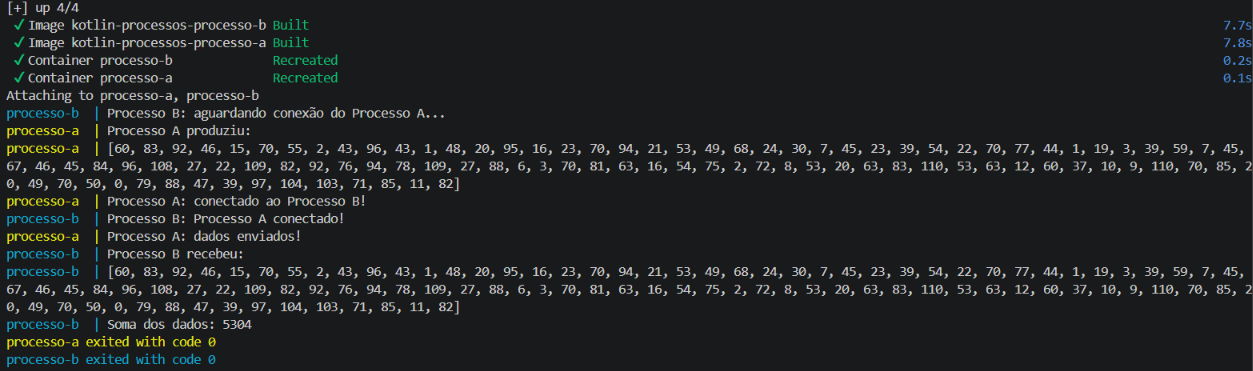
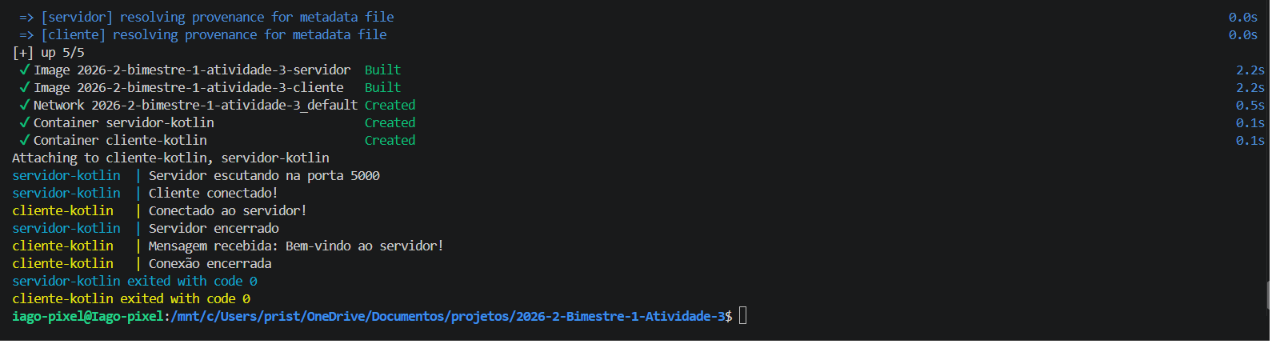
alterando "Comunicação entre tarefas em processos diferentes em computadores diferentes"

Changed region(s): [[0.0, 0.0, 1.0, 1.0]]

diff --git a/servidor/servidor_basico.kt b/servidor/servidor_basico.kt
@@ -1,0 +1,25 @@
+import java.net.ServerSocket
+import java.net.InetAddress
+
+fun main() {
+    val servidor = ServerSocket(
+        5000,
+        1,
+        InetAddress.getByName("0.0.0.0")
+    )
+
+    println("Servidor escutando na porta 5000")
+
+    val conexao = servidor.accept()
+    println("Cliente conectado!")
+
+    val mensagem = "Bem-vindo ao servidor!"
+    conexao.getOutputStream().write(
+        mensagem.toByteArray(Charsets.UTF_8)
+    )
+
+    conexao.close()
+    servidor.close()
+
+    println("Servidor encerrado")
+}

diff --git a/cliente/cliente_basico.kt b/cliente/cliente_basico.kt
@@ -1,0 +1,20 @@
+import java.net.Socket
+
+fun main() {
+    val cliente = Socket("servidor", 5000)
+
+    println("Conectado ao servidor!")
+
+    val buffer = ByteArray(1024)
+    val quantidade = cliente.getInputStream().read(buffer)
+
+    if (quantidade != -1) {
+        val mensagem = String(
+            buffer, 0, quantidade, Charsets.UTF_8
+        )
+        println("Mensagem recebida: $mensagem")
+    }
+
+    cliente.close()
+    println("Conexão encerrada")
+}

diff --git a/relato.md b/relato.md
@@ -161,7 +161,7 @@ fun produzirDados(): List<Int> {
 val resultado = dados.sum()
 ```
 
-> Logo após temos a principal função definida como "principal", essa função realiza a chamada da produção de dados e atirbui a lista a variavel "dados" após isso faz a chamada para afunçaõ seguinte que a realiza a operação já mencionada.
+> Logo após temos a principal função definida como "principal", essa função realiza a chamada da produção de dados e atribui a lista a variavel "dados" após isso faz a chamada para afunçaõ seguinte que a realiza a operação já mencionada.
 
 
 ##### Ex-2:
@@ -301,92 +301,71 @@ FIXME
 
 #### O código
 
-> O projeto demonstra a comunicação entre dois processos independentes utilizando Kotlin, Docker e TCP Socket.
+> O código desenvolvido tem como objetivo estabelecer uma comunicação entre dois programas escritos em Kotlin, utilizando sockets TCP e executando cada programa em um contêiner Docker separado.
 
-> O Processo A é responsável por gerar uma lista com 100 números aleatórios. Depois, ele cria um Socket e se conecta ao Processo B através da porta 5000. A lista é convertida para texto e enviada pela conexão TCP.
+> O servidor é responsável por escutar conexões na porta 5000 e aguardar a solicitação de um cliente. Quando a conexão é estabelecida, ele envia a mensagem “Bem-vindo ao servidor!” e, em seguida, encerra a conexão. O cliente, por sua vez, conecta-se ao servidor utilizando o nome do serviço definido no Docker Compose, recebe a mensagem enviada, exibe o conteúdo no terminal e fecha a conexão.
 
-> O Processo B funciona como servidor. Ele utiliza ServerSocket(5000) para ficar aguardando uma conexão. Quando o Processo A se conecta, B recebe os dados, transforma a mensagem novamente em uma lista de números e calcula a soma.
+> Para executar os programas, foram criados Dockerfiles individuais, responsáveis por compilar os códigos Kotlin e preparar o ambiente de execução de cada aplicação. Além disso, foi utilizado o Docker Compose para construir as imagens, iniciar os contêineres e permitir a comunicação entre eles por meio de uma rede interna.
 
-> O Docker Compose cria e conecta os dois containers em uma rede interna. Dessa forma, o Processo A consegue encontrar o Processo B pelo nome processo-b.
+> Dessa forma, o exercício demonstrou na prática o funcionamento da comunicação entre processos utilizando sockets TCP, além de apresentar como o Docker permite executar aplicações isoladas que se comunicam pela rede.
 
-> Assim, o projeto mostra como dois processos separados podem trocar informações pela rede sem compartilhar diretamente a memória, simulando a comunicação entre dois computadores.
-
-##### Processo-a
+##### Cliente basico
 
 ```kotlin
 import java.net.Socket
-import kotlin.random.Random
-
-fun produzirDados(): List<Int> {
-    return List(100) {
-        Random.nextInt(0, 111)
-    }
-}
 
 fun main() {
+    val cliente = Socket("servidor", 5000)
 
-    val dados = produzirDados()
+    println("Conectado ao servidor!")
 
-    println("Processo A produziu:")
-    println(dados)
+    val buffer = ByteArray(1024)
+    val quantidade = cliente.getInputStream().read(buffer)
 
-    val socket = Socket("processo-b", 5000)
+    if (quantidade != -1) {
+        val mensagem = String(
+            buffer, 0, quantidade, Charsets.UTF_8
+        )
+        println("Mensagem recebida: $mensagem")
+    }
 
-    println("Processo A: conectado ao Processo B!")
-
-    val mensagem = dados.joinToString(",")
-
-    val writer = socket
-        .getOutputStream()
-        .bufferedWriter()
-
-    writer.write(mensagem)
-    writer.newLine()
-    writer.flush()
-
-    println("Processo A: dados enviados!")
-
-    socket.close()
+    cliente.close()
+    println("Conexão encerrada")
 }
 ```
 
-#### processo-b
+#### Servidor básico
 ```kotlin
 import java.net.ServerSocket
+import java.net.InetAddress
 
 fun main() {
-    val server = ServerSocket(5000)
+    val servidor = ServerSocket(
+        5000,
+        1,
+        InetAddress.getByName("0.0.0.0")
+    )
 
-    println("Processo B: aguardando conexão do Processo A...")
+    println("Servidor escutando na porta 5000")
 
-    val socket = server.accept()
+    val conexao = servidor.accept()
+    println("Cliente conectado!")
 
-    println("Processo B: Processo A conectado!")
+    val mensagem = "Bem-vindo ao servidor!"
+    conexao.getOutputStream().write(
+        mensagem.toByteArray(Charsets.UTF_8)
+    )
 
-    val mensagem = socket
-        .getInputStream()
-        .bufferedReader()
-        .readLine()
+    conexao.close()
+    servidor.close()
 
-    val dados = mensagem
-        .split(",")
-        .map { it.toInt() }
-
-    println("Processo B recebeu:")
-    println(dados)
-
-    val soma = dados.sum()
-
-    println("Soma dos dados: $soma")
-
-    socket.close()
-    server.close()
+    println("Servidor encerrado")
 }
 ```
 
 ### Execução
 
-> A execução do projeto aconteceu através do Docker Compose, que foi responsável por criar e executar os dois processos em containers separados. O Docker executou os dois programas separadamente, enquanto o TCP Socket foi responsável por fazer a comunicação entre eles.
+> A execução foi realizada por meio do comando docker compose up --build, responsável por construir as imagens e iniciar os contêineres do servidor e do cliente Kotlin. Após a inicialização, o servidor passou a escutar na porta 5000 e aguardou a conexão do cliente. Quando a conexão foi estabelecida, o servidor enviou a mensagem de boas-vindas, que foi recebida e exibida no terminal do cliente. Ao final, ambos encerraram a conexão corretamente.
 
 ![Saída do terminal](src/img/ex_codigo_2.png)
 
